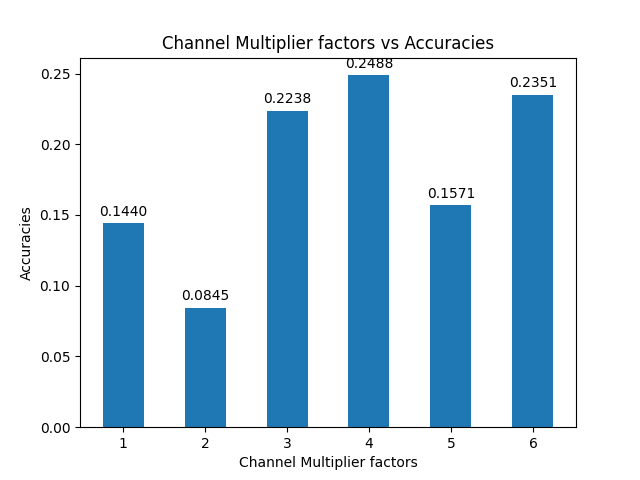
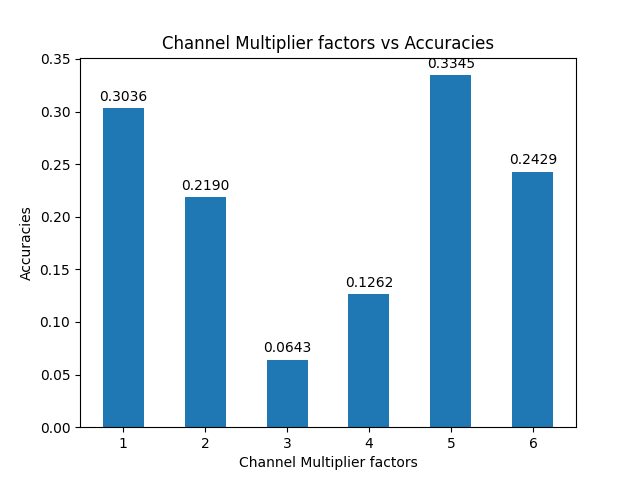
finally

diff --git a/txl_workplace/lab4_software.py b/txl_workplace/lab4_software.py
@@ -25,6 +25,9 @@ from chop.tools.get_input import InputGenerator
 from chop.ir.graph.mase_graph import MaseGraph
 
 from chop.models import get_model_info, get_model
+from chop.passes.graph.utils import get_node_actual_target
+
+from copy import deepcopy
 
 set_logging_verbosity("info")
 
@@ -108,32 +111,42 @@ def instantiate_linear(in_features, out_features, bias):
         out_features=out_features,
         bias=bias)
 
-def redefine_linear_transform_pass(graph, pass_args=None):
+def redefine_linear_transform_pass(ori_graph, pass_args=None):
+    # return a copy of origin graph, otherwise the number of channels will keep growing
+    graph = deepcopy(ori_graph)
     main_config = pass_args.pop('config')
     default = main_config.pop('default', None)
     if default is None:
         raise ValueError(f"default value must be provided.")
-    i = 0
     for node in graph.fx_graph.nodes:
-        i += 1
         # if node name is not matched, it won't be tracked
         config = main_config.get(node.name, default)['config']
-        name = config.get("name", None)
-        if name is not None:
-            ori_module = graph.modules[node.target]
-            in_features = ori_module.in_features
-            out_features = ori_module.out_features
-            bias = ori_module.bias
-            if name == "output_only":
-                out_features = out_features * config["output_channel_multiplier"]
-            elif name == "both":
-                in_features = in_features * config["input_channel_multiplier"]
-                out_features = out_features * config["output_channel_multiplier"]
-            elif name == "input_only":
-                in_features = in_features * config["input_channel_multiplier"]
-            new_module = instantiate_linear(in_features, out_features, bias)
-            parent_name, name = get_parent_name(node.target)
-            setattr(graph.modules[parent_name], name, new_module)
+        if isinstance(get_node_actual_target(node), nn.Linear):
+            name = config.get("name", None)
+            if name is not None:
+                ori_module = graph.modules[node.target]
+                in_features = ori_module.in_features
+                out_features = ori_module.out_features
+                bias = ori_module.bias
+                if name == "output_only":
+                    out_features = out_features * config["channel_multiplier"]
+                elif name == "both":
+                    in_features = in_features * main_config.get(config['prev_link'], default)['config']["channel_multiplier"]
+                    out_features = out_features * config["channel_multiplier"]
+                elif name == "input_only":
+                    in_features = in_features * main_config.get(config['prev_link'], default)['config']["channel_multiplier"]
+                new_module = instantiate_linear(in_features, out_features, bias)
+                parent_name, name = get_parent_name(node.target)
+                setattr(graph.modules[parent_name], name, new_module)
+        elif isinstance(get_node_actual_target(node), nn.BatchNorm1d):
+            prev_link = config.get("prev_link", None)
+            if prev_link is not None:
+                ori_module = graph.modules[node.target]
+                num_features, eps, momentum, affine = ori_module.num_features, ori_module.eps, ori_module.momentum, ori_module.affine
+                num_features = num_features * main_config.get(prev_link, default)['config']["channel_multiplier"]
+                new_module = nn.BatchNorm1d(num_features, eps, momentum, affine)
+                parent_name, name = get_parent_name(node.target)
+                setattr(graph.modules[parent_name], name, new_module)
     return graph, {}
 
 
@@ -145,20 +158,20 @@ pass_config = {
     "config": {
         "name": "output_only",
         # weight
-        "output_channel_multiplier": 2,
+        "channel_multiplier": 2,
         }
     },
 "seq_blocks_4": {
     "config": {
         "name": "both",
-        "input_channel_multiplier": 2,
-        "output_channel_multiplier": 2,
+        "prev_link": "seq_blocks_2",
+        "channel_multiplier": 2,
         }
     },
 "seq_blocks_6": {
     "config": {
         "name": "input_only",
-        "input_channel_multiplier": 2,
+        "prev_link": "seq_blocks_4",
         }
     },
 }
@@ -184,12 +197,8 @@ num_batchs = 5
 channel_multipliers = [1,2,3,4,5,6]
 search_spaces = []
 for cm_config in channel_multipliers:
-    pass_config['seq_blocks_2']['input_channel_multiplier'] = cm_config
-    pass_config['seq_blocks_2']['output_channel_multiplier'] = cm_config
-    pass_config['seq_blocks_4']['input_channel_multiplier'] = cm_config
-    pass_config['seq_blocks_4']['output_channel_multiplier'] = cm_config
-    pass_config['seq_blocks_6']['input_channel_multiplier'] = cm_config
-    pass_config['seq_blocks_6']['output_channel_multiplier'] = cm_config
+    pass_config['seq_blocks_2']['config']['channel_multiplier'] = cm_config
+    pass_config['seq_blocks_4']['config']['channel_multiplier'] = cm_config
     # dict.copy() and dict(dict) only perform shallow copies
     # in fact, only primitive data types in python are doing implicit copy when a = b happens
     search_spaces.append(copy.deepcopy(pass_config))
@@ -199,8 +208,8 @@ recorded_latencies = []
 recorded_model_sizes = []
 recorded_flops = []
 for i, config in enumerate(search_spaces):
-    mg, _ = redefine_linear_transform_pass(
-        graph=mg, pass_args={"config": config})
+    new_mg, _ = redefine_linear_transform_pass(
+        ori_graph=mg, pass_args={"config": config})
     j = 0
 
     # this is the inner loop, where we also call it as a runner.
@@ -211,7 +220,7 @@ for i, config in enumerate(search_spaces):
     for inputs in data_module.train_dataloader():
         xs, ys = inputs
         start = time.time()
-        preds = mg.model(xs)
+        preds = new_mg.model(xs)
         end = time.time()
         loss = nn.functional.cross_entropy(preds, ys)
         acc = metric(preds, ys)
@@ -224,7 +233,7 @@ for i, config in enumerate(search_spaces):
         latency += end - start
         if flag:
             flag = False
-            flops, model_size, _ = count_flops_params(mg.model, xs, verbose=False, mode='full')
+            flops, model_size, _ = count_flops_params(new_mg.model, xs, verbose=False, mode='full')
     acc_avg = sum(accs) / len(accs)
     loss_avg = sum(losses) / len(losses)
     print('accs: ', accs)

diff --git a/machop/chop/actions/search/search_space/channel_multiplier/graph.py b/machop/chop/actions/search/search_space/channel_multiplier/graph.py
@@ -8,7 +8,7 @@ from .....passes.graph import (
     init_metadata_analysis_pass,
     add_common_metadata_analysis_pass,
 )
-from .....passes.graph.utils import get_mase_op, get_mase_type
+from .....passes.graph.utils import get_mase_op, get_mase_type, get_node_actual_target
 from ..utils import flatten_dict, unflatten_dict
 from collections import defaultdict
 
@@ -45,7 +45,7 @@ class TXLSearchSpaceChannelMultiplier(SearchSpaceBase):
             mg, _ = add_common_metadata_analysis_pass(mg, {"dummy_in": self.dummy_input})
             self.mg = mg
         if sampled_config is not None:
-            print(sampled_config)
+            # print(sampled_config)
             mg, _ = redefine_linear_transform_pass(self.mg, {"config": sampled_config})
         mg.model.to(self.accelerator)
         return mg
@@ -129,30 +129,42 @@ def instantiate_linear(in_features, out_features, bias):
         bias=bias)
 
 
-def redefine_linear_transform_pass(graph, pass_args=None):
+def redefine_linear_transform_pass(ori_graph, pass_args=None):
+    # return a copy of origin graph, otherwise the number of channels will keep growing
+    graph = deepcopy(ori_graph)
     main_config = pass_args.pop('config')
     default = main_config.pop('default', None)
     if default is None:
         raise ValueError(f"default value must be provided.")
-    i = 0
     for node in graph.fx_graph.nodes:
-        i += 1
         # if node name is not matched, it won't be tracked
         config = main_config.get(node.name, default)['config']
-        name = config.get("name", None)
-        if name is not None:
-            ori_module = graph.modules[node.target]
-            in_features = ori_module.in_features
-            out_features = ori_module.out_features
-            bias = ori_module.bias
-            if name == "output_only":
-                out_features = out_features * config["output_channel_multiplier"]
-            elif name == "both":
-                in_features = in_features * config["input_channel_multiplier"]
-                out_features = out_features * config["output_channel_multiplier"]
-            elif name == "input_only":
-                in_features = in_features * config["input_channel_multiplier"]
-            new_module = instantiate_linear(in_features, out_features, bias)
-            parent_name, name = get_parent_name(node.target)
-            setattr(graph.modules[parent_name], name, new_module)
+        if isinstance(get_node_actual_target(node), nn.Linear):
+            name = config.get("name", None)
+            if name is not None:
+                ori_module = graph.modules[node.target]
+                in_features = ori_module.in_features
+                out_features = ori_module.out_features
+                bias = ori_module.bias
+                if name == "output_only":
+                    out_features = out_features * config["channel_multiplier"]
+                elif name == "both":
+                    in_features = in_features * main_config.get(config['prev_link'], default)['config']["channel_multiplier"]
+                    out_features = out_features * config["channel_multiplier"]
+                elif name == "input_only":
+                    in_features = in_features * main_config.get(config['prev_link'], default)['config']["channel_multiplier"]
+                new_module = instantiate_linear(in_features, out_features, bias)
+                parent_name, name = get_parent_name(node.target)
+                setattr(graph.modules[parent_name], name, new_module)
+        elif isinstance(get_node_actual_target(node), nn.BatchNorm1d):
+            prev_link = config.get("prev_link", None)
+            if prev_link is not None:
+                ori_module = graph.modules[node.target]
+                num_features, eps, momentum, affine = ori_module.num_features, ori_module.eps, ori_module.momentum, ori_module.affine
+                num_features = num_features * main_config.get(prev_link, default)['config']["channel_multiplier"]
+                new_module = nn.BatchNorm1d(num_features, eps, momentum, affine)
+                parent_name, name = get_parent_name(node.target)
+                setattr(graph.modules[parent_name], name, new_module)
+
+
     return graph, {}

diff --git a/machop/chop/actions/search/strategies/optuna.py b/machop/chop/actions/search/strategies/optuna.py
@@ -117,7 +117,7 @@ class SearchStrategyOptuna(SearchStrategyBase):
         if not self.sum_scaled_metrics:
             return list(scaled_metrics.values())
         else:
-            print(sum(scaled_metrics.values()))
+            # print(sum(scaled_metrics.values()))
             return sum(scaled_metrics.values())
 
     def search(self, search_space) -> optuna.study.Study:

diff --git a/txl_workplace/report/lab4_software.md b/txl_workplace/report/lab4_software.md
@@ -45,42 +45,77 @@ class JSC_Three_Linear_Layers(nn.Module):
         return self.seq_blocks(x)
 ```
 ### Can you then design a search so that it can reach a network that can have this kind of structure?
-- Instead of using **channel_multiplier**, by decoupling the **input_channel_multiplier** and **output_channel_multiplier**, we could assign different scaling factors to each layer. 
+- Instead of applying **channel_multiplier** to both **in_features** and **out_features**, we only applying it to **out_features** and set **prev_link** to get correct **in_features** from previous layer
+- **nn.BatchNorm1d** is also supported by setting **prev_link** 
     ```python
-        if name == "output_only":
-            out_features = out_features * config["output_channel_multiplier"]
-        elif name == "both":
-            in_features = in_features * config["input_channel_multiplier"]
-            out_features = out_features * config["output_channel_multiplier"]
-        elif name == "input_only":
-            in_features = in_features * config["input_channel_multiplier"]
+      def redefine_linear_transform_pass(ori_graph, pass_args=None):
+          # return a copy of origin graph, otherwise the number of channels will keep growing
+          graph = deepcopy(ori_graph)
+          main_config = pass_args.pop('config')
+          default = main_config.pop('default', None)
+          if default is None:
+              raise ValueError(f"default value must be provided.")
+          for node in graph.fx_graph.nodes:
+              # if node name is not matched, it won't be tracked
+              config = main_config.get(node.name, default)['config']
+              if isinstance(get_node_actual_target(node), nn.Linear):
+                  name = config.get("name", None)
+                  if name is not None:
+                      ori_module = graph.modules[node.target]
+                      in_features = ori_module.in_features
+                      out_features = ori_module.out_features
+                      bias = ori_module.bias
+                      if name == "output_only":
+                          out_features = out_features * config["channel_multiplier"]
+                      elif name == "both":
+                          in_features = in_features * main_config.get(config['prev_link'], default)['config']["channel_multiplier"]
+                          out_features = out_features * config["channel_multiplier"]
+                      elif name == "input_only":
+                          in_features = in_features * main_config.get(config['prev_link'], default)['config']["channel_multiplier"]
+                      new_module = instantiate_linear(in_features, out_features, bias)
+                      parent_name, name = get_parent_name(node.target)
+                      setattr(graph.modules[parent_name], name, new_module)
+              elif isinstance(get_node_actual_target(node), nn.BatchNorm1d):
+                  prev_link = config.get("prev_link", None)
+                  if prev_link is not None:
+                      ori_module = graph.modules[node.target]
+                      num_features, eps, momentum, affine = ori_module.num_features, ori_module.eps, ori_module.momentum, ori_module.affine
+                      num_features = num_features * main_config.get(prev_link, default)['config']["channel_multiplier"]
+                      new_module = nn.BatchNorm1d(num_features, eps, momentum, affine)
+                      parent_name, name = get_parent_name(node.target)
+                      setattr(graph.modules[parent_name], name, new_module)
+          return graph, {}
     ```
     ```python
-    pass_config = {
-    "by": "name",
-    "default": {"config": {"name": None}},
-    "seq_blocks_2": {
-        "config": {
-            "name": "output_only",
-            # weight
-            "output_channel_multiplier": 2,
-            }
-        },
-    "seq_blocks_4": {
-        "config": {
-            "name": "both",
-            "input_channel_multiplier": 2,
-            "output_channel_multiplier": 2,
-            }
-        },
-    "seq_blocks_6": {
-        "config": {
-            "name": "input_only",
-            "input_channel_multiplier": 2,
-            }
-        },
-    }
+      pass_config = {
+      "by": "name",
+      "default": {"config": {"name": None}},
+      "seq_blocks_2": {
+          "config": {
+              "name": "output_only",
+              # weight
+              "channel_multiplier": 2,
+              }
+          },
+      "seq_blocks_4": {
+          "config": {
+              "name": "both",
+              "prev_link": "seq_blocks_2",
+              "channel_multiplier": 2,
+              }
+          },
+      "seq_blocks_6": {
+          "config": {
+              "name": "input_only",
+              "prev_link": "seq_blocks_4",
+              }
+          },
+      }
     ```
     ![result of Q3](img/lab4_soft_q3.png)
 
 ### Q4. Integrate the search to the <u>chop</u> flow, so we can run it from the command line.
+- Self defined [TXLSearchSpaceChannelMultiplier](machop/chop/actions/search/search_space/channel_multiplier/graph.py) is inherited form **SearchSpaceBase**
+- [.toml](txl_workplace/lab4_search_channel_multiplier.toml) file is configured
+- Both self defined BF search implemented in [Lab3](txl_workplace/report/lab3.md) and optuna engine in mase can be applied to this channel multiplier search space
+![terminal output](img/lab4_soft_q4.png)

diff --git a/txl_workplace/report/lab3.md b/txl_workplace/report/lab3.md
@@ -8,7 +8,7 @@
 ![latency](img/lab3_q2_latency.png)
 ![model size](img/lab3_q2_size.png)
 ![flops](img/lab3_q2_flops.png)
-SThe model size and FLOPs of the different configuration is the same, as the configuration only change the quantize operation but not change the model architecture. 
+- The model size and FLOPs of the different configuration is the same, as the configuration only change the quantize operation but not change the model architecture. 
 ### Q3. Implement the brute-force search as an additional search method within the system, this would be a new search strategy in MASE.
 - key code block for self defined brute-force search which is inherited form **SearchStrategyBase**
 ```python
@@ -69,5 +69,37 @@ SThe model size and FLOPs of the different configuration is the same, as the con
 - The field <u>search.strategy.name</u> in .toml configuration file should also adjust to the key above.
 - The output of using self defined brute-force search
 ![output for self defined bruce-force search](img/lab3_q3_bf_output.png)
+
 ### Q4. Compare the brute-force search with the TPE based search, in terms of sample efficiency. Comment on the performance difference between the two search methods.
+- Part of settings about the experiment
+```toml
+[search.search_space.seed.seq_blocks_2.config]
+name = ["integer"]
+data_in_width = [4, 8, 16]
+data_in_frac_width = ["NA"]
+weight_width = [2, 4, 8, 16]
+weight_frac_width = ["NA"]
+bias_width = [2, 4, 8, 16]
+bias_frac_width = ["NA"]
+
+[search.strategy.setup]
+n_jobs = 1
+n_trials = 48
+timeout = 20000
+sampler = "tpe"
+sum_scaled_metrics = true
+direction = "maximize"
+
+[search.strategy.metrics]
+accuracy.scale = 2.0
+accuracy.direction = "maximize"
+average_bitwidth.scale = -0.1
+average_bitwidth.direction = "minimize"
+```
+- Experiment results
+<br>![bruce force](img/lab3_q4_bf.png)
+![tpe](img/lab3_q4_tpe.png)
+- From figures above, it is demonstrated that the 'TPE' strategy tends to try more possible better choice after the initial stage but might get poor result in final stage of searching. However, 'Brute Force' strategy is aimless by trying all possible choices one by one.
+- When the search space goes larger, TPE strategy would outperform the simple Brute Force. Because TPE might get an acceptable good result with very limited number of trials.
+
 
